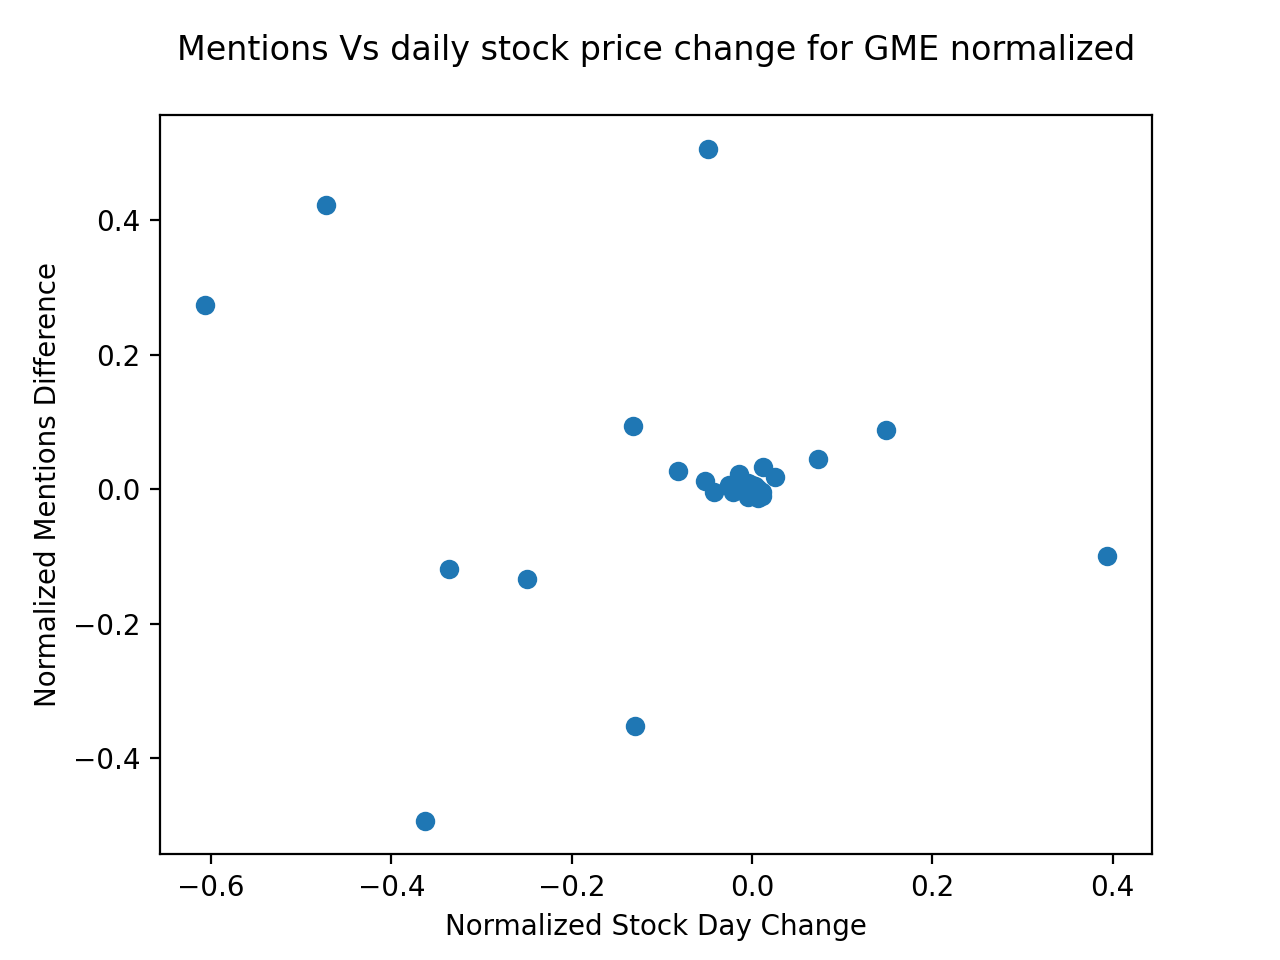
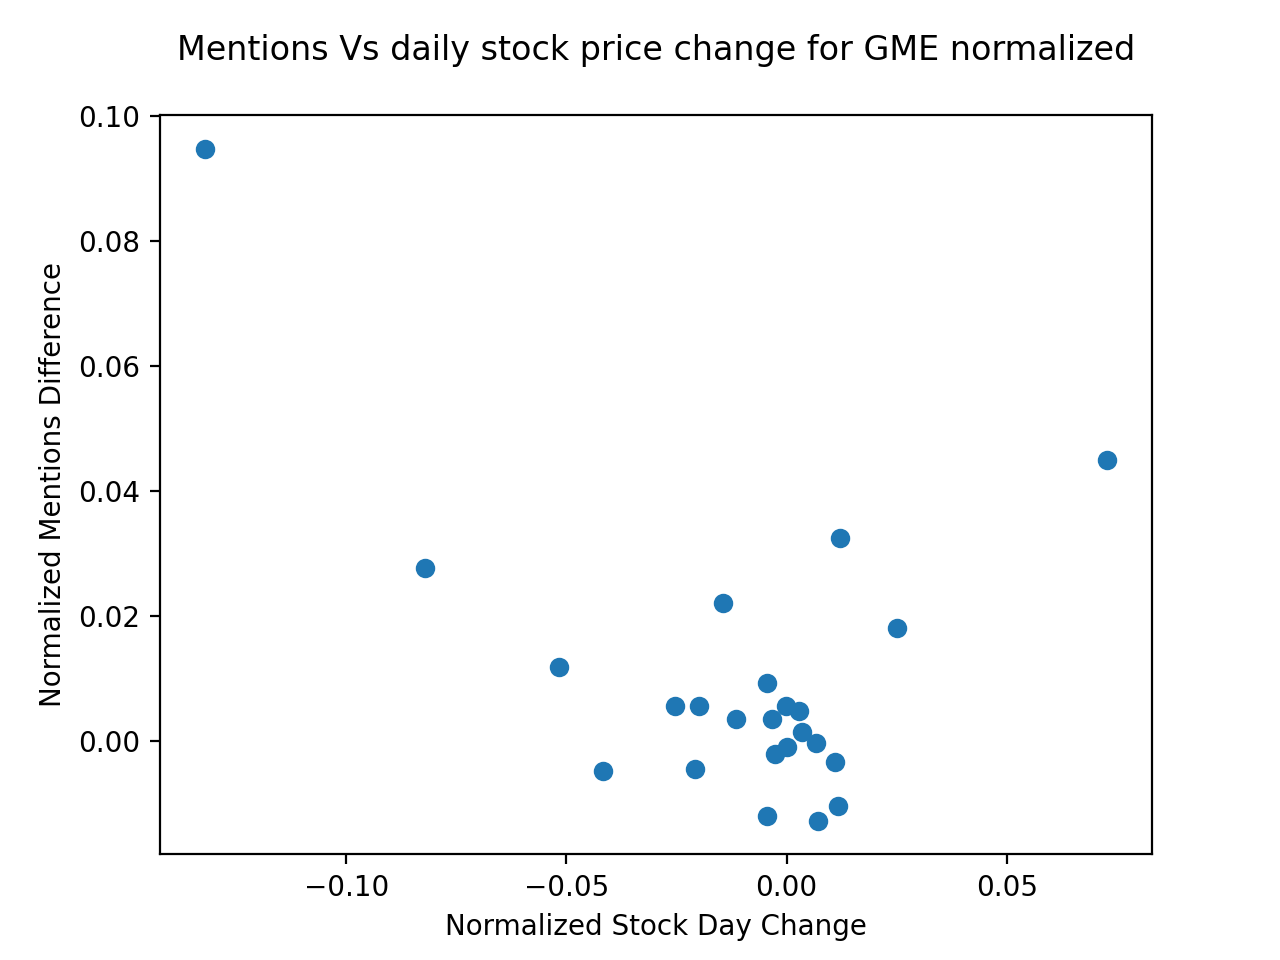
Updating Plots Outliers

diff --git a/stats.py b/stats.py
@@ -18,10 +18,10 @@ def probability_of_res_plot(model):
     normality_plot, stat = stats.probplot(model.resid, plot= plt, rvalue= True)
     ax.set_title("Probability plot of model residual's", fontsize= 20)
     ax.set
-
     plt.show()
 
 def plot_correlation_norm(symbol, df):
+    df = plot_correlation_helper(df)
     fig, ax = plt.subplots()
     ax.scatter(df['Change_Norm'], df['Mentions-Diff'])
     plt.ylabel('Normalized Mentions Difference')
@@ -32,3 +32,10 @@ def plot_correlation_norm(symbol, df):
     plt.close()
     figname = f"figures/{symbol}_Mentions_vs_Day_Change_Norm"
     fig.savefig(figname)
+
+def plot_correlation_helper(result):
+    result['Mentions-Diff'] = result['Mentions-Diff'].mask(result['Mentions-Diff']\
+        .sub(result['Mentions-Diff'].mean()).div(result['Mentions-Diff'].std()).abs().gt(.75))
+    result['Change_Norm'] = result['Change_Norm'].mask(result['Change_Norm']\
+        .sub(result['Change_Norm'].mean()).div(result['Change_Norm'].std()).abs().gt(.75))
+    return result

diff --git a/plot_stocks.py b/plot_stocks.py
@@ -13,6 +13,7 @@ from sklearn import preprocessing
 import matplotlib.dates as mdates
 import os
 from plotter import *
+from scipy import stats
 
 def get_stock(symbol, start, end):
     yf.pdr_override()
@@ -79,6 +80,7 @@ def organize_data(SQL_Query, symbol, start, end):
         else:
             x2[i] = (x2[i]/diff)
     result['Anova_Vals'] = (result['Mentions-Diff']*result['Change_Norm']).apply(lambda x: 1 if x > 0 else 0)
+    
     del result['count']
     return result
 
